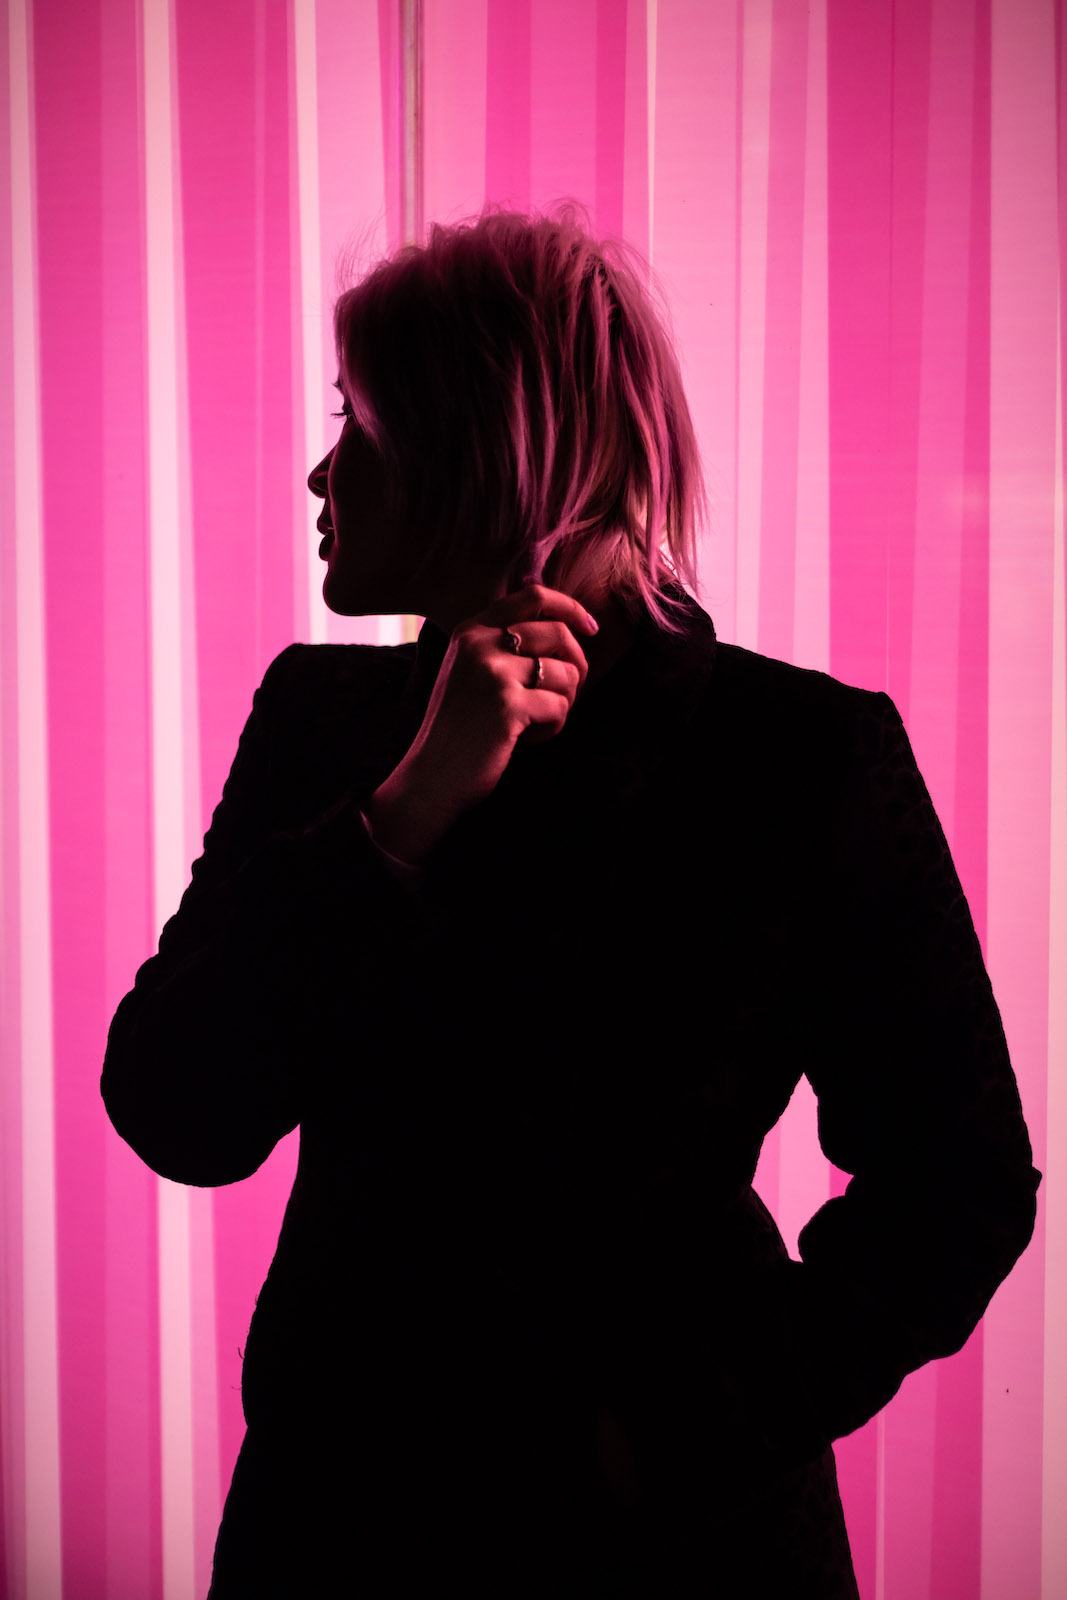
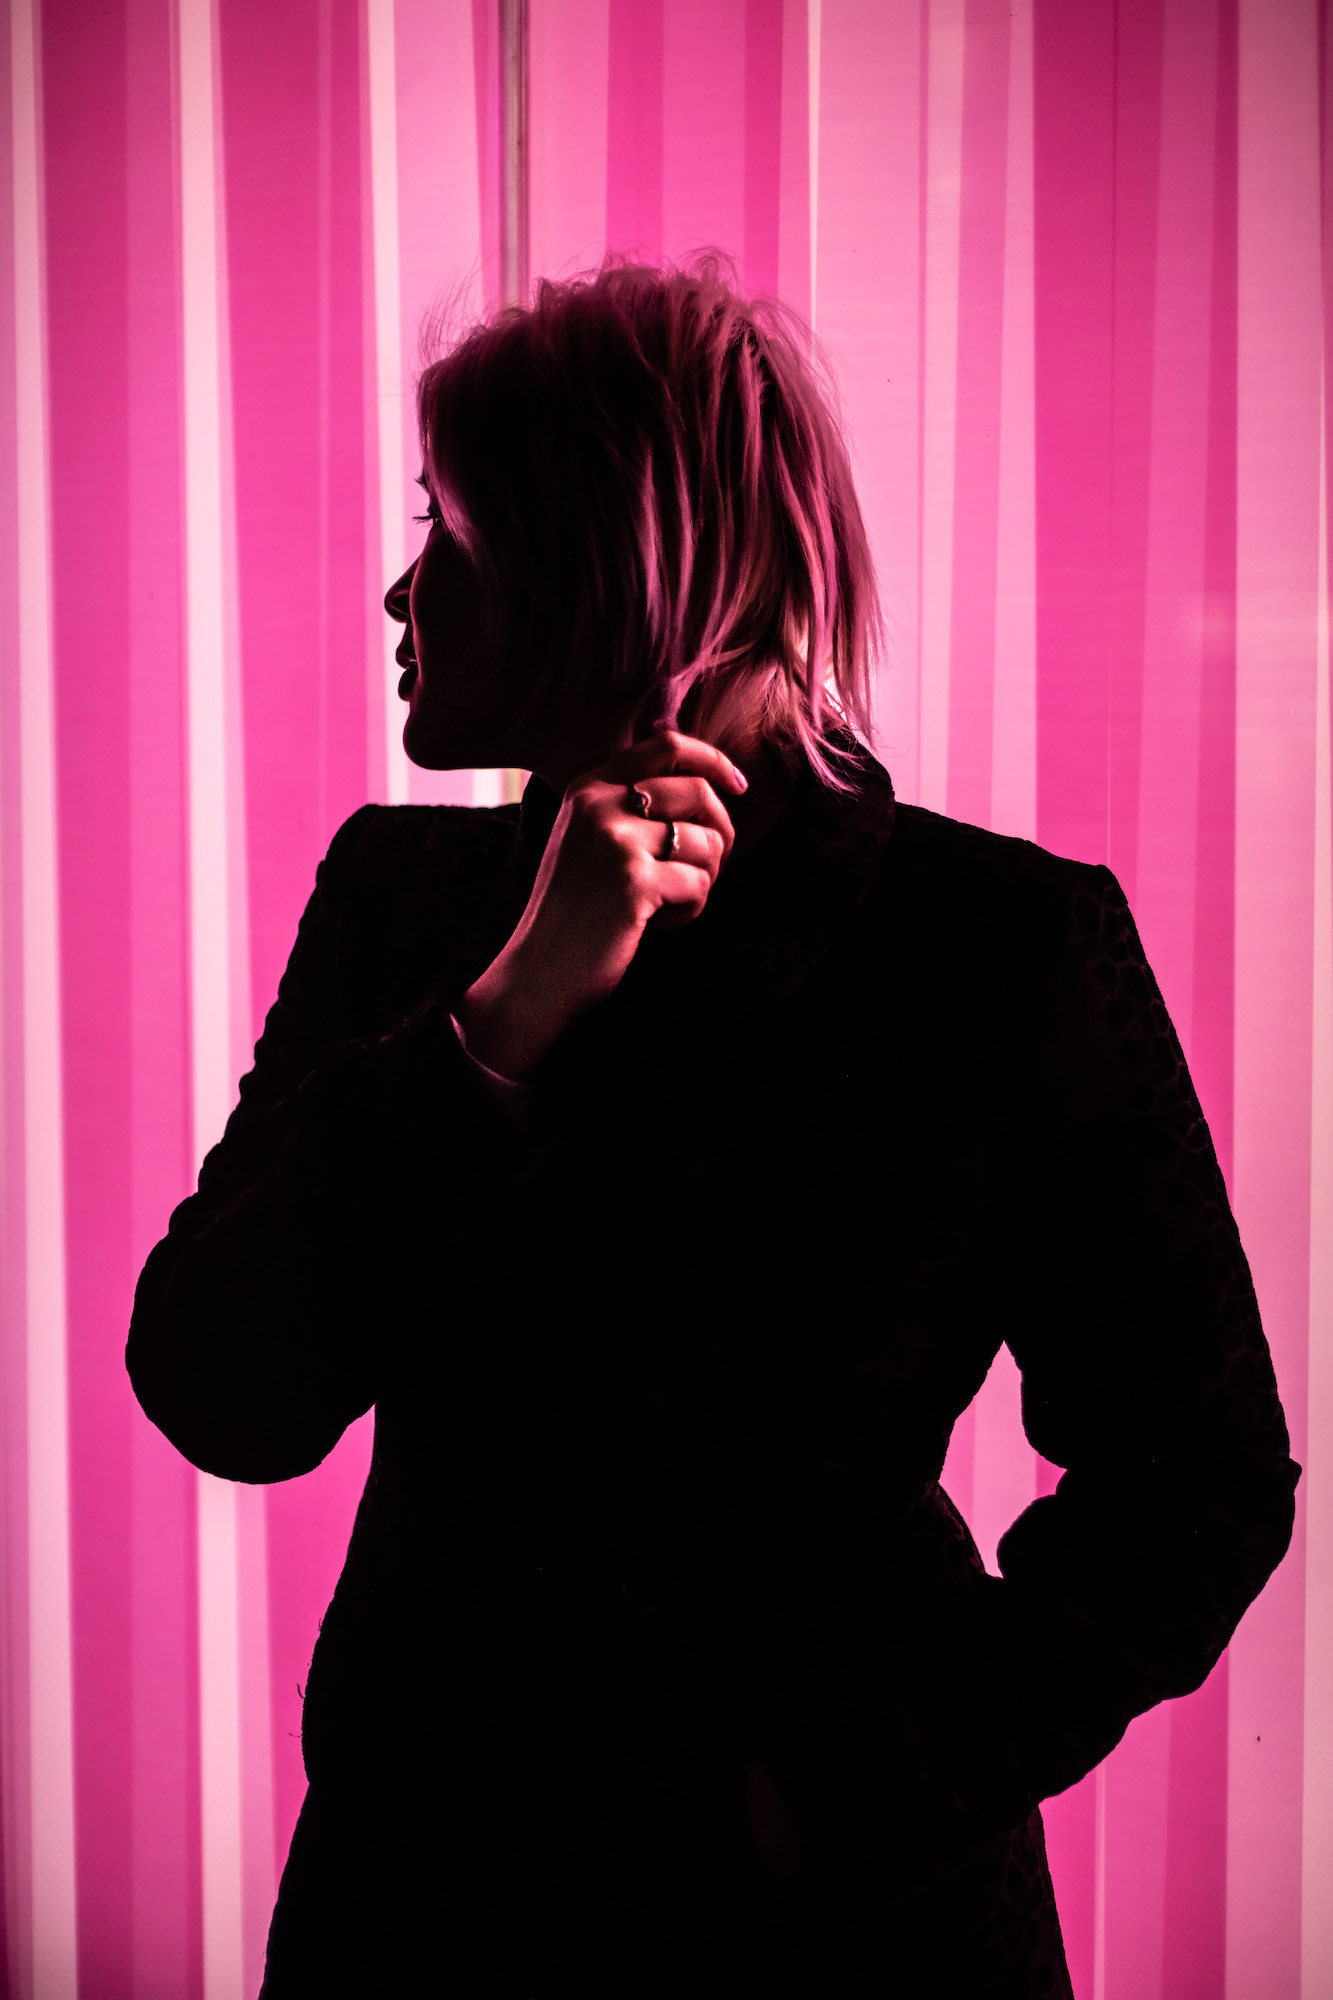
Update photos

diff --git a/src/pages/Portrait.jsx b/src/pages/Portrait.jsx
@@ -4,15 +4,15 @@ import { Carousel } from '../components/Carousel';
 export function Portrait() {
   const photos = [
     {src: 'images/portraits/A29A2443.jpg', width: 400},
+    {src: 'images/portraits/A29A0689.jpg', width: 900},
     {src: 'images/portraits/A29A2837.jpg', width: 400},
     {src: 'images/portraits/A29A2536.jpg', width: 400},
-    {src: 'images/portraits/A29A1784.jpg', width: 400},
-    {src: 'images/portraits/IMG_0687.jpg', width: 400},
-    {src: 'images/portraits/IMG_7074.jpg', width: 400},
+    {src: 'images/portraits/A29A2244.jpg', width: 900},
     {src: 'images/portraits/A29A2333.jpg', width: 400},
     {src: 'images/portraits/A29A2796.jpg', width: 400},
-    {src: 'images/portraits/A29A2244.jpg', width: 900},
-    {src: 'images/portraits/IMG_1770.jpg', width: 400}
+    {src: 'images/portraits/IMG_1770.jpg', width: 400},
+    {src: 'images/portraits/A29A1784.jpg', width: 400},
+    {src: 'images/portraits/A29A0724.jpg', width: 900}
   ];
   return (
     <div className="content">

diff --git a/src/components/Header.css b/src/components/Header.css
@@ -22,7 +22,7 @@
 .menu span {
   margin: 0px 25px;
   font-size: 14px;
-  font-weight: 500;
+  font-weight: 400;
 }
 
 .menu a {
